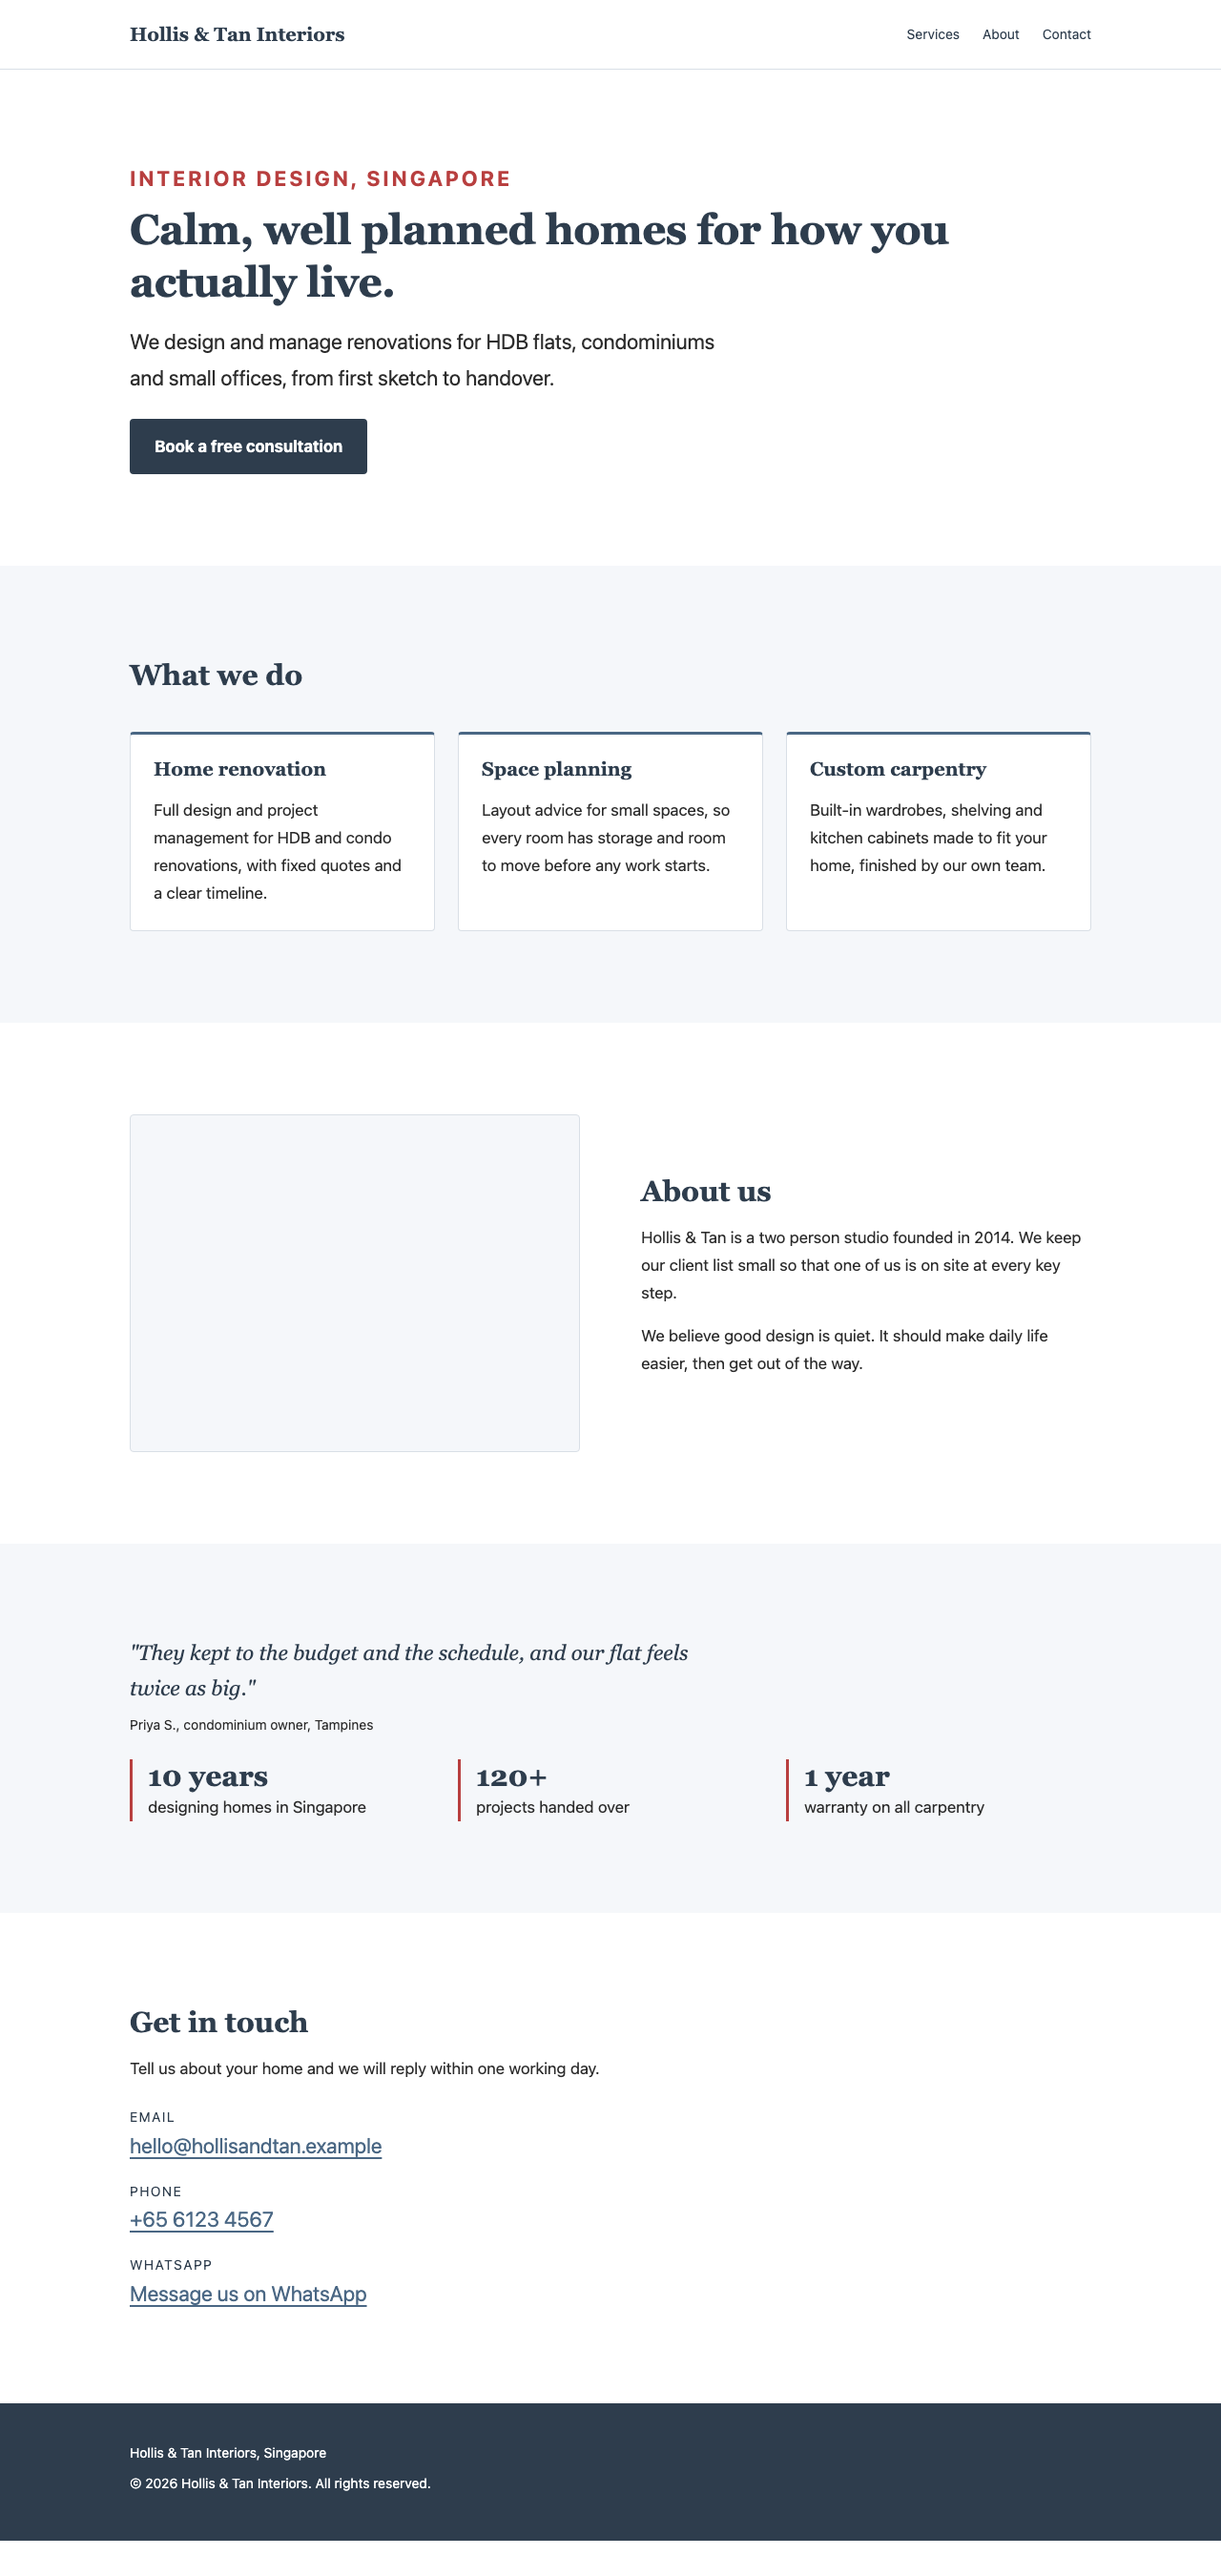
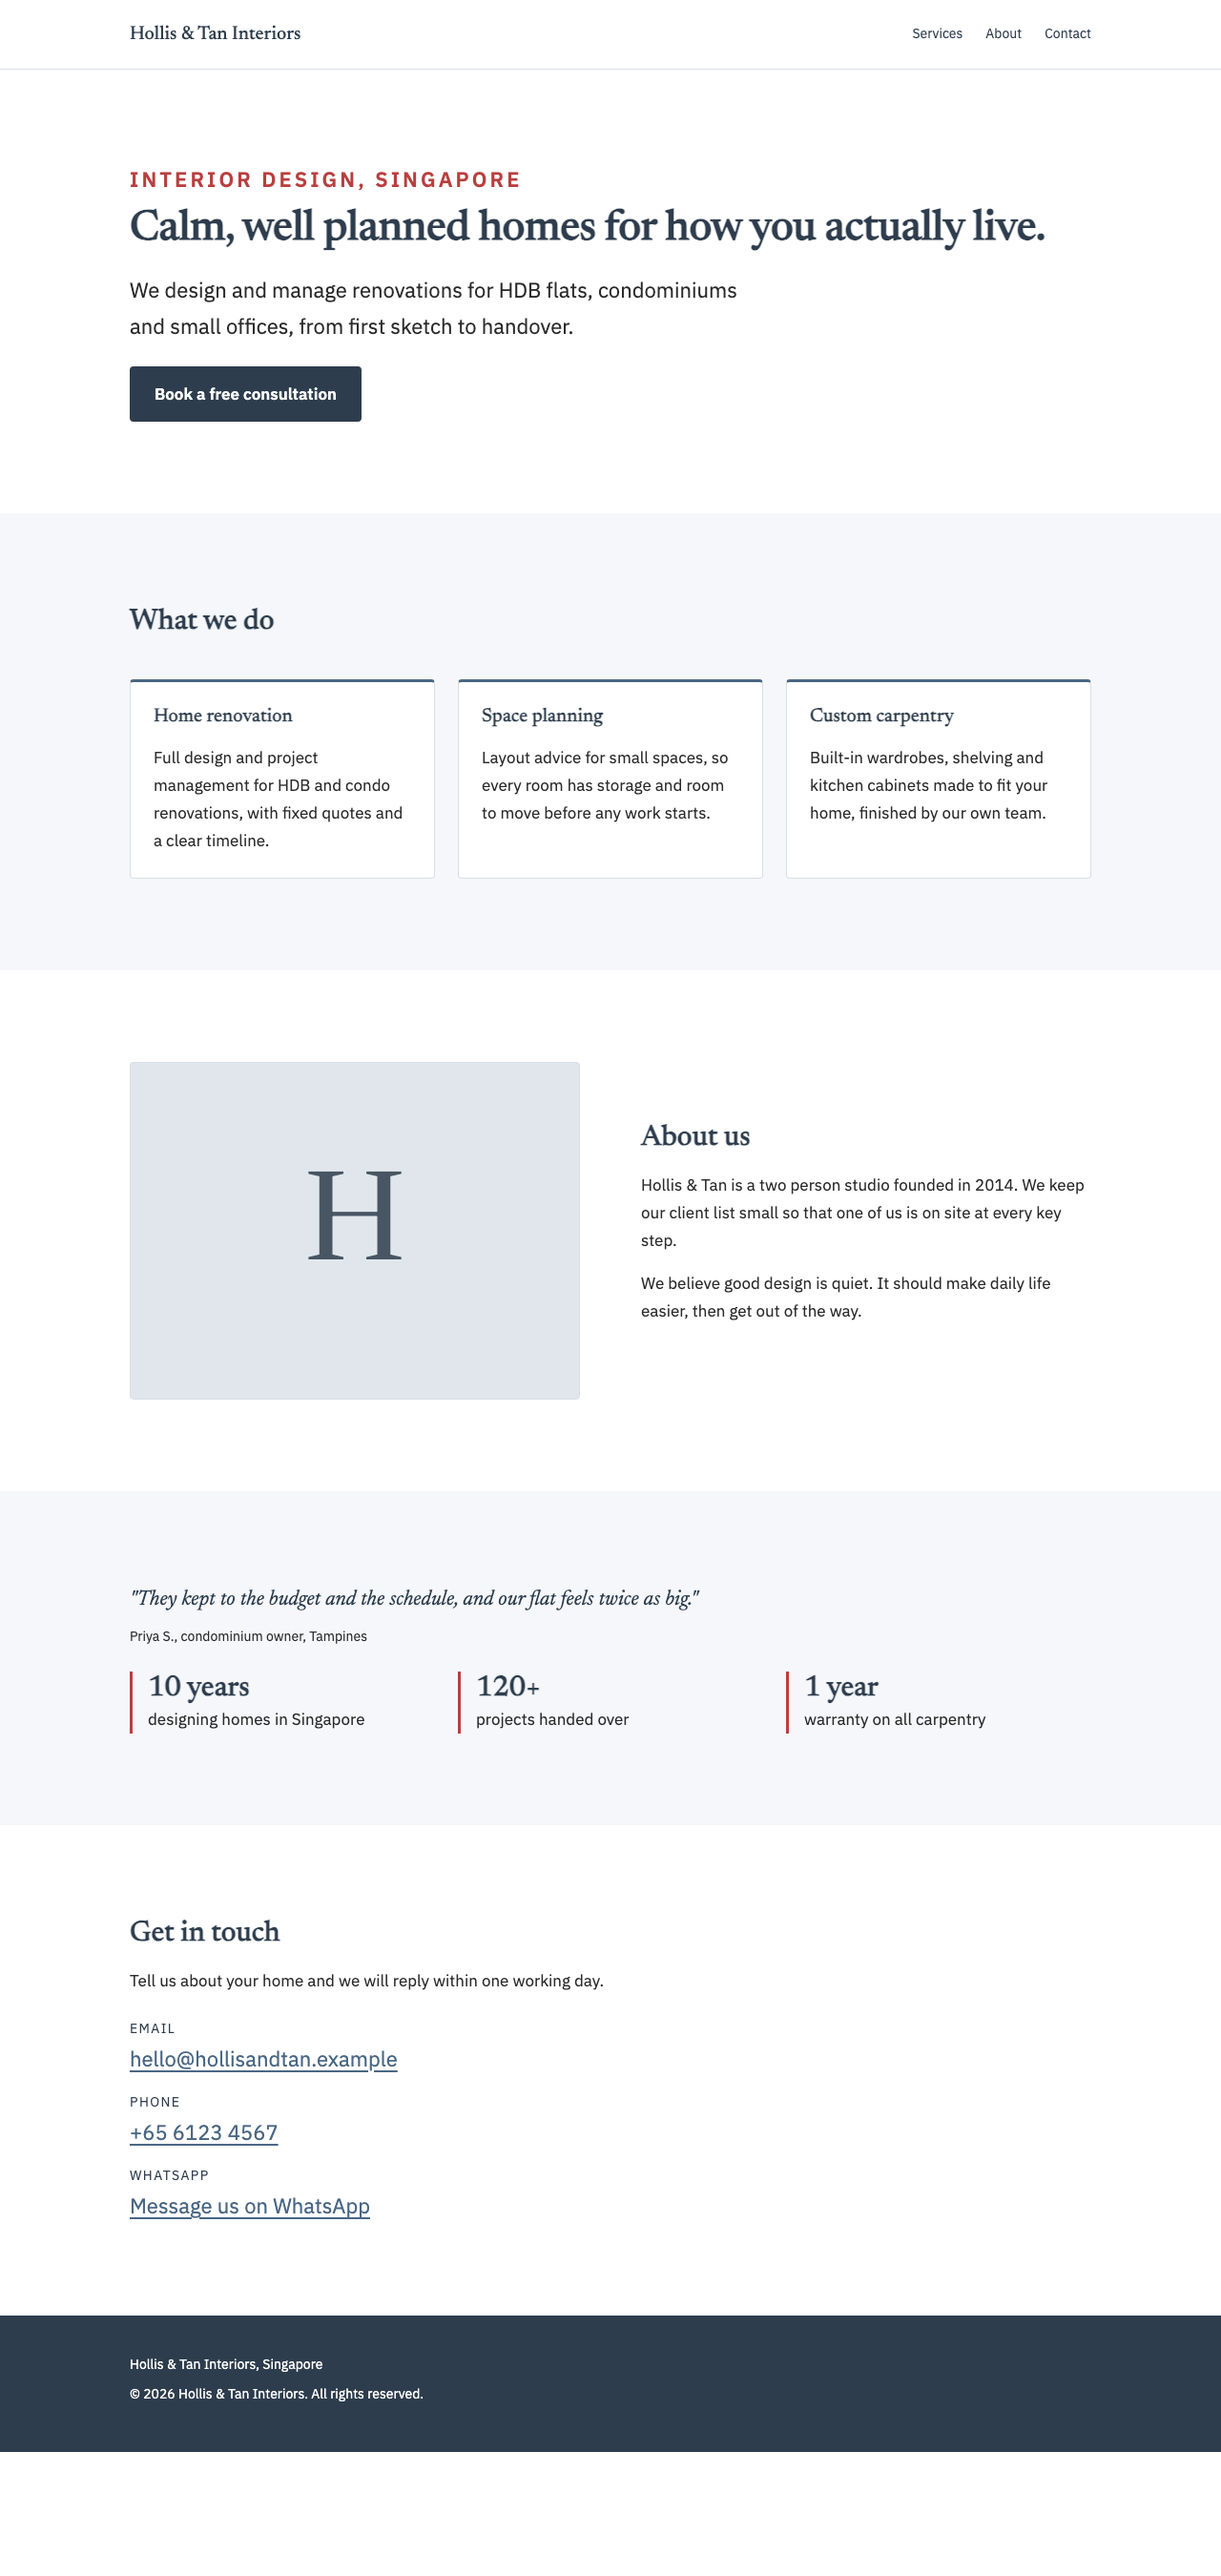
Photo block shows the business initial when there is no photo
Claude-Session: https://claude.ai/code/session_01Jr9TNt33wLyY1ysRkdEC7B

diff --git a/base.css b/base.css
@@ -61,6 +61,9 @@ a:hover { color: var(--color-slate); }
 .split { display: grid; gap: var(--space-4); grid-template-columns: 1fr; align-items: center; }
 .photo-block { background: var(--color-mist); border: 1px solid var(--color-line); border-radius: var(--radius); aspect-ratio: 4 / 3; width: 100%; object-fit: cover; }
 .section--alt .photo-block { background: var(--color-white); }
+/* No photo: a soft block showing the business initial (set data-initial on the div). */
+div.photo-block { display: flex; align-items: center; justify-content: center; background: color-mix(in srgb, var(--color-steel) 12%, var(--color-mist)); }
+div.photo-block::after { content: attr(data-initial); font-family: var(--font-heading); font-size: clamp(4rem, 12vw, 8rem); line-height: 1; color: var(--color-slate); opacity: 0.85; }
 
 /* highlights / testimonial */
 .highlights { display: grid; gap: var(--space-3); grid-template-columns: 1fr; margin-top: var(--space-3); }

diff --git a/example/index.html b/example/index.html
@@ -53,7 +53,7 @@
 
     <section class="section" id="about">
       <div class="container split">
-        <div class="photo-block" role="img" aria-label="Placeholder for a photo of the studio team"></div>
+        <div class="photo-block" data-initial="H" role="img" aria-label="Hollis and Tan initial"></div>
         <div>
           <h2>About us</h2>
           <p>Hollis &amp; Tan is a two person studio founded in 2014. We keep our client list small so that one of us is on site at every key step.</p>

diff --git a/skeleton.html b/skeleton.html
@@ -36,7 +36,7 @@
     </div></section>
 
     <section class="section" id="about"><div class="container split">
-      <div class="photo-block" role="img" aria-label="Photo placeholder"></div>
+      <div class="photo-block" data-initial="B" role="img" aria-label="Business initial"></div>
       <div><h2>About</h2><p>Two lines about the owner.</p></div>
     </div></section>
 

diff --git a/README.md b/README.md
@@ -12,7 +12,7 @@ Instructions for an AI assistant. You are building a one-page website for a smal
 2. No other colours. No other fonts. The fonts are Newsreader (headings) and IBM Plex Sans (body), already loaded by `tokens.css`.
 3. No gradients, emoji, icon libraries, icon fonts, stock photos, animations or JavaScript frameworks.
 4. Keep to these sections, in this order: header with business name, hero, services (exactly 3 cards), about, highlights or testimonial (leave out if you have no real content; never invent), contact (email, phone, WhatsApp), footer.
-5. No images unless the owner supplied links. Where a photo would go, use `<div class="photo-block">`. If the owner gave a photo link, use `<img class="photo-block" src="..." alt="...">` with a real description.
+5. No images unless the owner supplied links. Where a photo would go, use `<div class="photo-block" data-initial="X">`, where X is the first letter of the business name. If the owner gave a photo link, use `<img class="photo-block" src="..." alt="...">` with a real description.
 6. Plain, honest copy. Never invent awards, numbers, reviews or clients. No dashes used as punctuation in copy.
 7. Phone links use `tel:+65XXXXXXXX`. WhatsApp uses `https://wa.me/65XXXXXXXX` (digits only, with country code).
 8. Keep one `h1` (the hero), `h2` per section, `h3` per card.
@@ -88,7 +88,7 @@ Note: the stylesheets are served through jsDelivr (cdn.jsdelivr.net), which send
     </div></section>
 
     <section class="section" id="about"><div class="container split">
-      <div class="photo-block" role="img" aria-label="Photo placeholder"></div>
+      <div class="photo-block" data-initial="B" role="img" aria-label="Business initial"></div>
       <div><h2>About</h2><p>Two lines about the owner.</p></div>
     </div></section>
 
